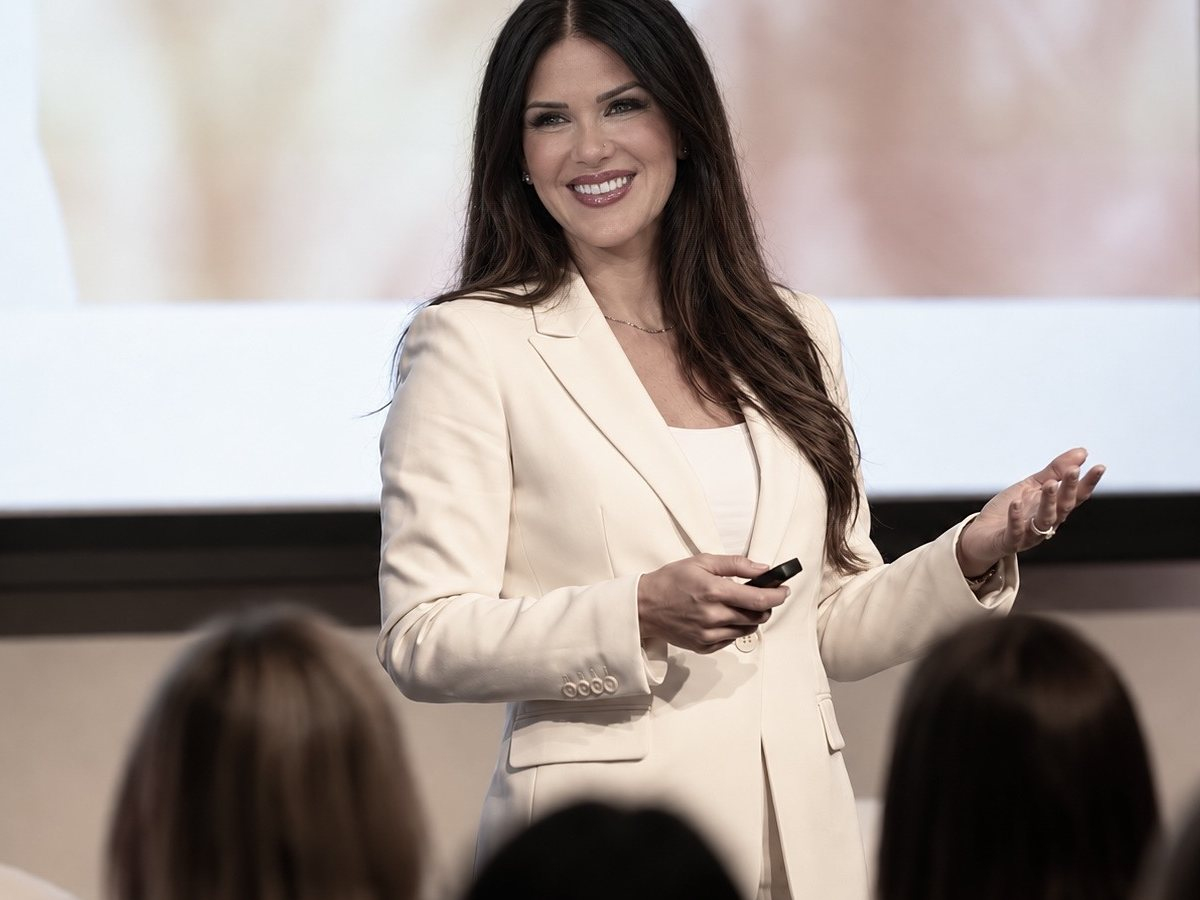
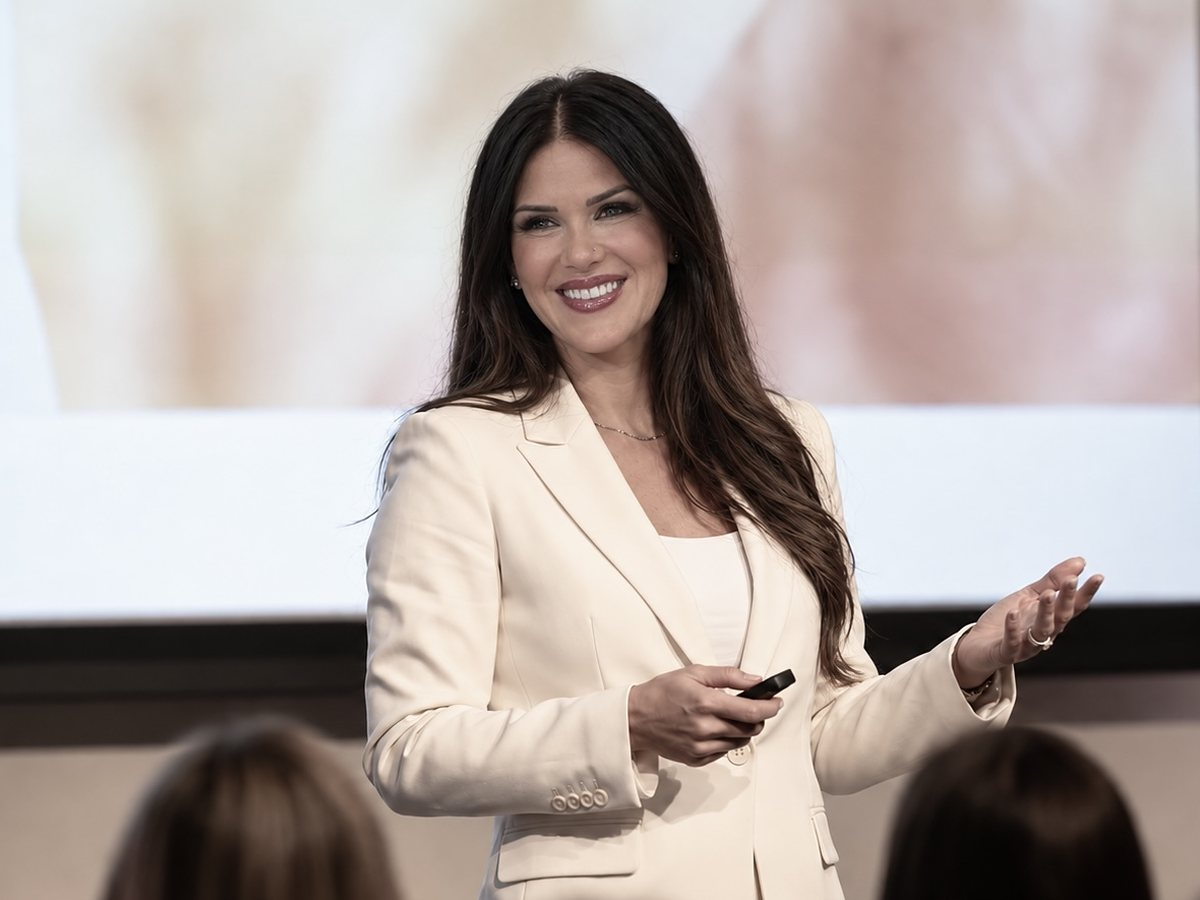
Session card: keep Liz's whole head in the stage photo
Re-crop from the top of the frame and show the full 4:3 photo on phones
instead of a short crop.

Claude-Session: https://claude.ai/code/session_01TEVotZPgF6ToUc6A9oEUrN

diff --git a/site/assets/site.css b/site/assets/site.css
@@ -72,7 +72,8 @@ p{margin:0}
 .row{display:flex;flex-wrap:wrap;align-items:center;gap:20px 28px;background:var(--white);border:1px solid var(--line);padding:14px 28px 14px 14px;text-decoration:none;color:inherit}
 .row-media{width:180px;height:132px;flex-shrink:0;background:var(--sand);display:flex;align-items:center;justify-content:center;overflow:hidden}
 .row-media img{width:100%;height:100%;object-fit:cover}
-.row-media .photo-session{object-position:50% 14%}
+.row-media .photo-session{object-position:50% 0}
+@media (max-width:640px){.row-media:has(.photo-session){height:auto;aspect-ratio:4/3}}
 .row.featured{background:var(--blush);border-color:var(--pink)}
 .row.featured .row-media{background:var(--white)}
 .row-copy{flex:1 1 240px;min-width:0;display:flex;flex-direction:column;gap:6px}
